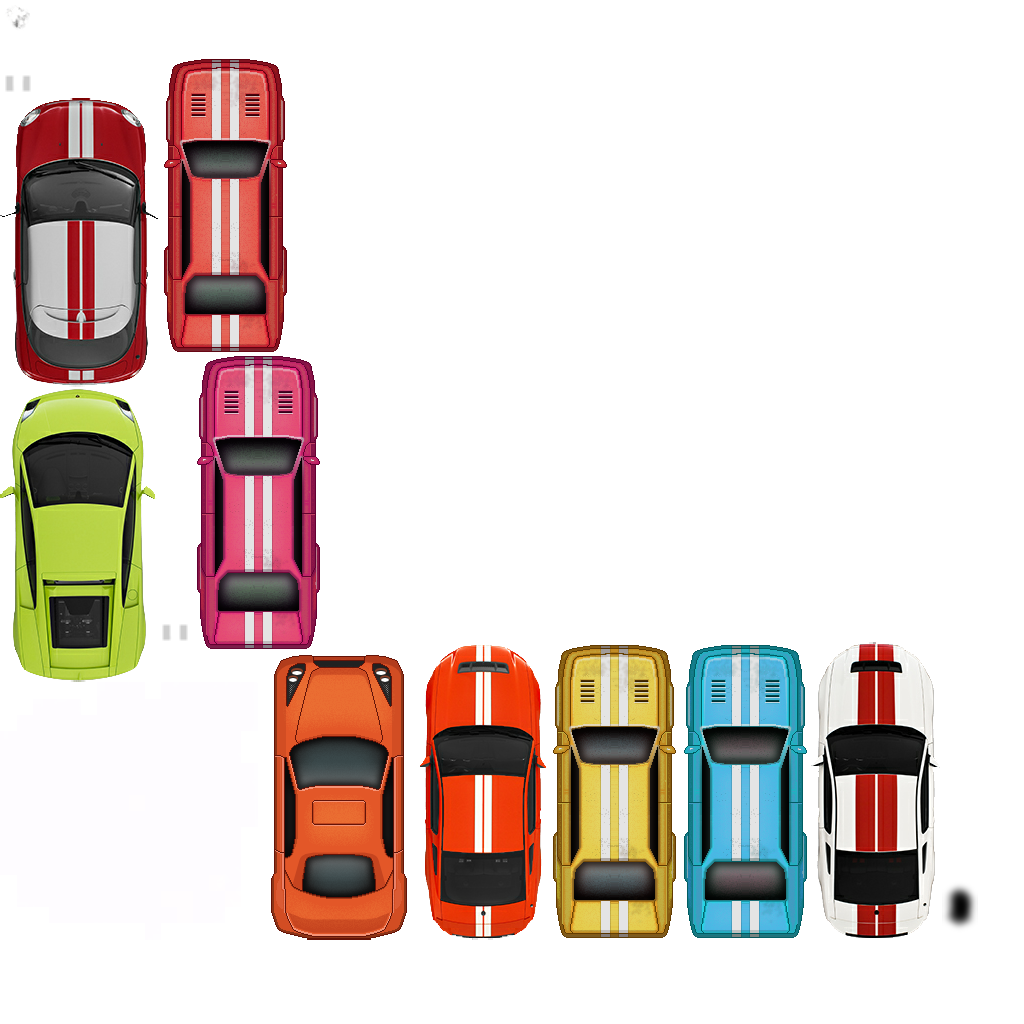
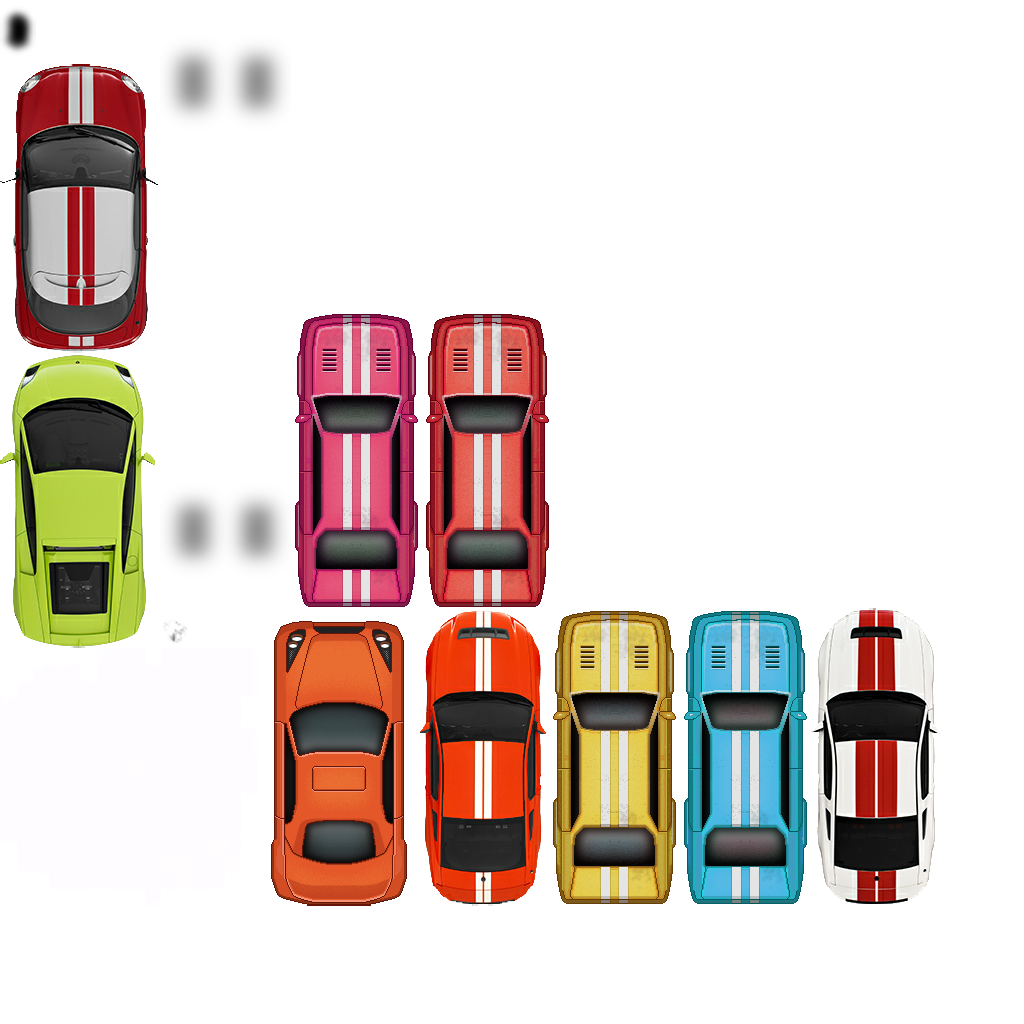
Now it looks like better drift marks.
Source resources now include a template.
Exporting (with Gimp) goes like this: create another image, copy-past the 4
tire layers to the other image (w/ transparent background), make sure the
positions are maintained, blur (RLE) 32x32, set opacity at 50% for all
tires, finally export front then rear images.

Changed region(s): [[0.0, 0.0, 0.9688, 0.9375]]

diff --git a/uracer-desktop/src/com/bitfire/uracer/game/logic/trackeffects/effects/PlayerSkidMarks.java b/uracer-desktop/src/com/bitfire/uracer/game/logic/trackeffects/effects/PlayerSkidMarks.java
@@ -126,7 +126,7 @@ public class PlayerSkidMarks extends TrackEffect {
 		pos.x = AMath.lerp( last.x, position.x, 0.5f );
 		pos.y = AMath.lerp( last.y, position.y, 0.5f );
 
-		// if( driftState.driftStrength > 0.2f )
+		if( driftState.driftStrength > 0.2f )
 		// if( di.isDrifting )
 		{
 			// add front drift marks?
@@ -137,12 +137,12 @@ public class PlayerSkidMarks extends TrackEffect {
 
 			// drift.alphaFront = driftState.driftStrength;
 			// drift.alphaRear = driftState.driftStrength;
-			drift.alphaFront = driftState.lateralForcesFront;
-			drift.alphaRear = driftState.lateralForcesRear;
+			drift.alphaFront = driftState.lateralForcesFront * 0.75f * driftState.driftStrength;
+			drift.alphaRear = driftState.lateralForcesRear * 0.75f * driftState.driftStrength;
 			drift.setPosition( pos );
 			drift.setOrientation( orientation );
-			drift.front.setScale( AMath.clamp( driftState.lateralForcesFront + 0f, 0.85f, 1.1f ) );
-			drift.rear.setScale( AMath.clamp( driftState.lateralForcesRear + 0f, 0.85f, 1.1f ) );
+			drift.front.setScale( AMath.clamp( driftState.lateralForcesFront + 0.25f, 0.75f, 1.0f ) );
+			drift.rear.setScale( AMath.clamp( driftState.lateralForcesRear + 0.25f, 0.75f, 1.0f ) );
 			drift.life = MaxParticleLifeSeconds;
 		}
 		// }
